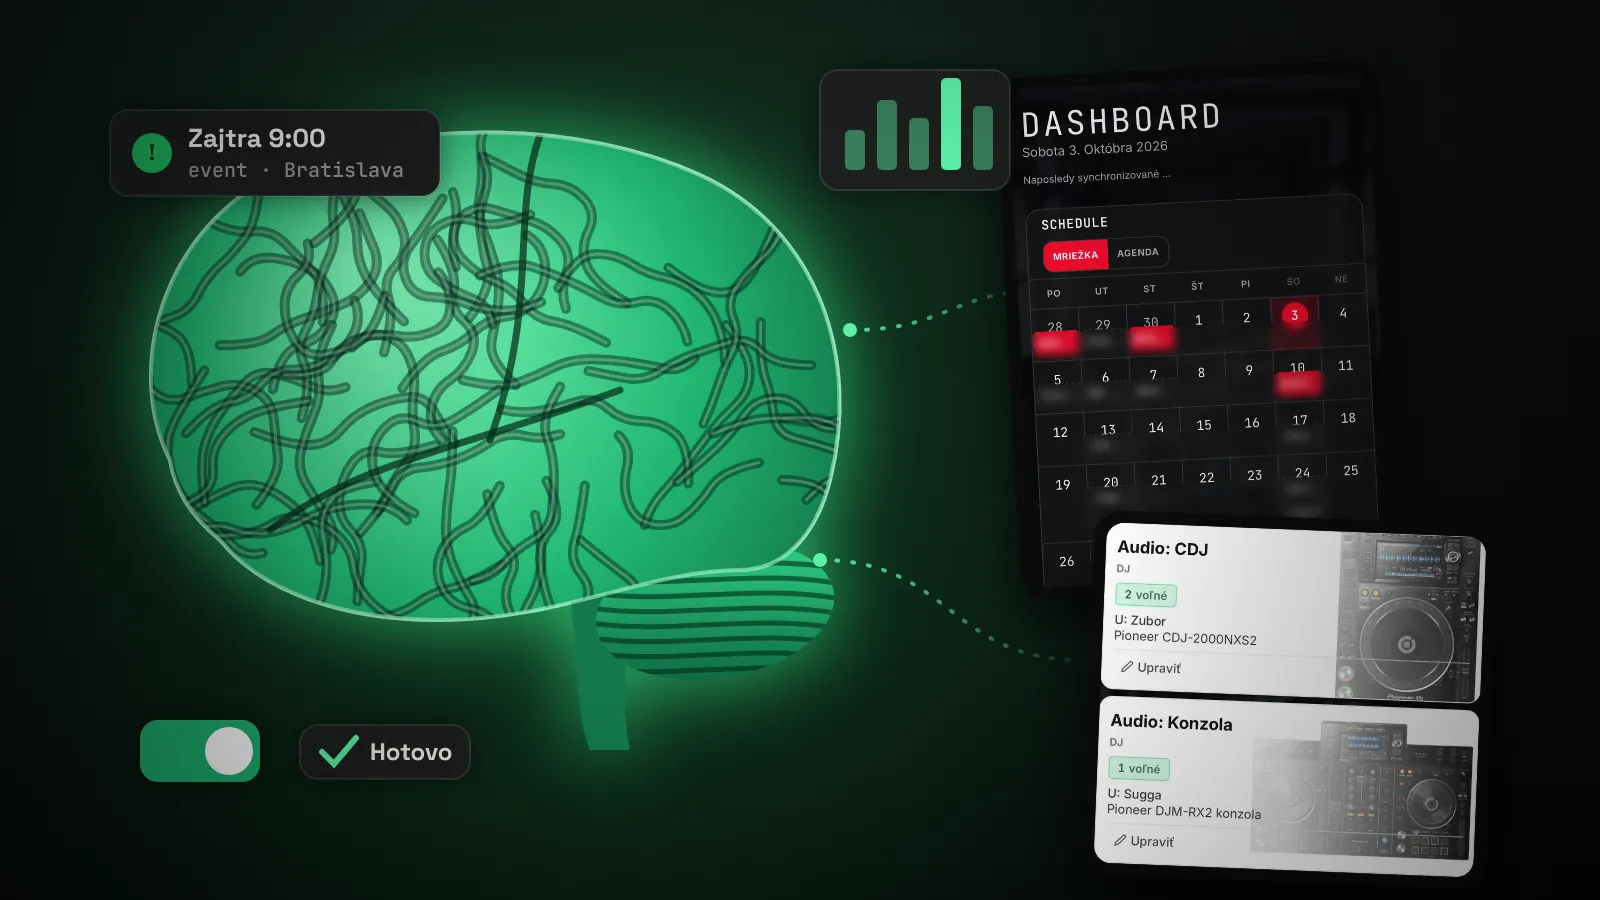
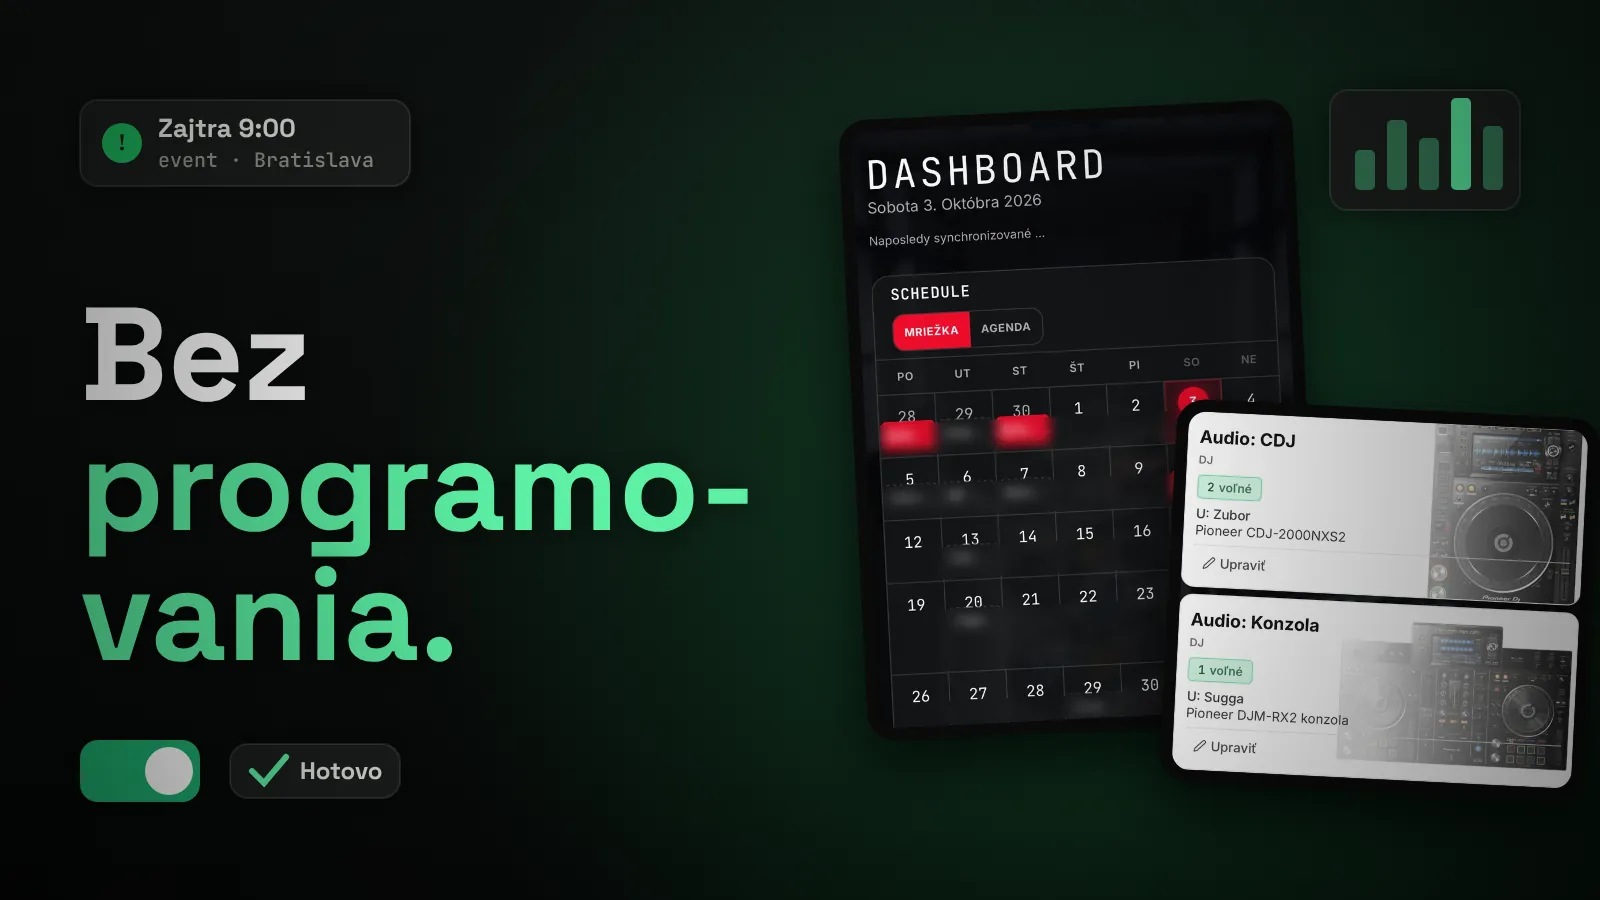
CS článok a Event Hub: svietiaci HWK tag, firemná liga, nový záver, obálka bez mozgu
- HWK banan: bez čierneho podkladu, svietiaca bledomodrá + žltá s obrysom
- poznámka pod komentárom z 2007, firemná e-športová liga, v CS-ku
- preč zoznam Tímová komunikácia / Rýchle rozhodovanie; záver: plejko trojka, hry stoja
- Event Hub obálka: Bez programovania + screenshoty a UI prvky, mozog preč

Claude-Session: https://claude.ai/code/session_012nSy5vG9ASVvhgHFNwy8Rx

diff --git a/tools/blog/covers/event-hub-appka-na-vlastnu-robotu.html b/tools/blog/covers/event-hub-appka-na-vlastnu-robotu.html
@@ -1,69 +1,31 @@
 <!doctype html><html><head><meta charset="utf-8"><link rel="stylesheet" href="../../cv/f/f.css"><style>html,body{margin:0;background:#0B0C0B}canvas{display:block}</style></head><body>
 <canvas id="c" width="1600" height="900"></canvas><script src="_base.js"></script><script>
-// thumbnail: a big glowing brain, the app's real screens and a few UI bits flying out of it. No title.
+// thumbnail: short title, the app's real screens and a few UI bits
 const srcs=['../../../img/eh-calendar.webp','../../../img/eh-stats.webp','../../../img/eh-tech.webp']; // [1] (stats) is not drawn: it shows client names
 Promise.all([document.fonts.load('600 30px "Space Grotesk"'),document.fonts.load('500 24px "JetBrains Mono"'),...srcs.map(s=>new Promise(res=>{const i=new Image();i.onload=()=>res(i);i.src=s;}))]).then(([, ,...imgs])=>{
 bg('#0F1412','#060807');
-let g=x.createRadialGradient(560,450,40,560,450,760);g.addColorStop(0,'rgba(31,191,98,.28)');g.addColorStop(1,'rgba(31,191,98,0)');x.fillStyle=g;x.fillRect(0,0,W,H);
-const BX=500,BY=420;
-// brain seen from the side, facing left: outline, cerebellum, stem
-const m=document.createElement('canvas');m.width=W;m.height=H;const b=m.getContext('2d');
-function outline(c){c.beginPath();c.moveTo(BX-330,BY+40);
- c.bezierCurveTo(BX-380,BY-60,BX-330,BY-210,BX-200,BY-255);
- c.bezierCurveTo(BX-90,BY-300,BX+80,BY-300,BX+200,BY-245);
- c.bezierCurveTo(BX+320,BY-190,BX+360,BY-60,BX+330,BY+60);
- c.bezierCurveTo(BX+315,BY+120,BX+280,BY+150,BX+240,BY+150);
- c.bezierCurveTo(BX+150,BY+150,BX+60,BY+200,BX-60,BY+200);
- c.bezierCurveTo(BX-160,BY+200,BX-240,BY+170,BX-280,BY+120);
- c.bezierCurveTo(BX-310,BY+95,BX-325,BY+70,BX-330,BY+40);c.closePath();}
-function cereb(c){c.beginPath();c.ellipse(BX+215,BY+190,120,68,-.15,0,7);c.closePath();}
-// stem
-b.fillStyle='#14784D';b.beginPath();b.moveTo(BX+70,BY+175);b.bezierCurveTo(BX+80,BY+250,BX+75,BY+290,BX+90,BY+330);b.lineTo(BX+130,BY+330);b.bezierCurveTo(BX+120,BY+280,BX+125,BY+230,BX+135,BY+175);b.fill();
-// cerebellum with fine stripes
-const cg=b.createLinearGradient(0,BY+120,0,BY+260);cg.addColorStop(0,'#2FD487');cg.addColorStop(1,'#0E6A43');b.fillStyle=cg;cereb(b);b.fill();
-b.save();cereb(b);b.clip();b.strokeStyle='rgba(4,40,24,.6)';b.lineWidth=5;for(let yy=BY+128;yy<BY+262;yy+=15){b.beginPath();b.moveTo(BX+90,yy);b.bezierCurveTo(BX+170,yy+12,BX+260,yy-10,BX+340,yy+6);b.stroke();}b.restore();
-// cerebrum
-const fg=b.createRadialGradient(BX-120,BY-150,30,BX,BY,470);fg.addColorStop(0,'#7DF7B8');fg.addColorStop(.5,'#22B873');fg.addColorStop(1,'#0B5536');
-b.fillStyle=fg;outline(b);b.fill();
-b.save();outline(b);b.clip();b.lineCap='round';b.lineJoin='round';
-let s=5;const rr2=()=>(s=(s*16807)%2147483647)/2147483647;
-// folds: short meandering grooves (gyri), smoothed through midpoints
-for(let k=0;k<62;k++){
- let px=BX-340+rr2()*680,py=BY-270+rr2()*450,a=rr2()*6.28;const pts=[[px,py]];
- for(let j=0;j<7;j++){a+=(rr2()-.5)*2.4;px+=Math.cos(a)*38;py+=Math.sin(a)*38;pts.push([px,py]);}
- b.beginPath();b.moveTo(pts[0][0],pts[0][1]);
- for(let j=1;j<pts.length-1;j++){const mx=(pts[j][0]+pts[j+1][0])/2,my=(pts[j][1]+pts[j+1][1])/2;b.quadraticCurveTo(pts[j][0],pts[j][1],mx,my);}
- b.strokeStyle='rgba(4,45,27,.5)';b.lineWidth=10;b.stroke();
- b.save();b.translate(-2,-3);b.strokeStyle='rgba(210,255,230,.28)';b.lineWidth=3;b.stroke();b.restore();}
-// central sulcus and the big side fissure
-b.strokeStyle='rgba(4,40,24,.7)';b.lineWidth=7;
-b.beginPath();b.moveTo(BX+40,BY-285);b.bezierCurveTo(BX+10,BY-200,BX+40,BY-120,BX-10,BY+20);b.stroke();
-b.beginPath();b.moveTo(BX-230,BY+110);b.bezierCurveTo(BX-140,BY+40,BX-40,BY+30,BX+120,BY-30);b.stroke();
-b.restore();
-// rim light
-b.strokeStyle='rgba(180,255,215,.55)';b.lineWidth=4;outline(b);b.stroke();
-// glow + draw
-x.save();x.shadowColor='rgba(60,255,150,.65)';x.shadowBlur=80;x.drawImage(m,0,0);x.restore();x.drawImage(m,0,0);
+let g=x.createRadialGradient(1150,470,40,1150,470,760);g.addColorStop(0,'rgba(31,191,98,.28)');g.addColorStop(1,'rgba(31,191,98,0)');x.fillStyle=g;x.fillRect(0,0,W,H);
+// no brain: the app's screens are the picture
 // cards
 function card(img,cx,cy,w,rot,sh){const h=w*img.height/img.width;x.save();x.translate(cx,cy);x.rotate(rot);x.shadowColor='rgba(0,0,0,.7)';x.shadowBlur=60;x.shadowOffsetY=24;x.fillStyle='#0A0A0A';rr(-w/2-12,-h/2-12,w+24,h+24,28);x.fill();x.shadowColor='transparent';x.save();rr(-w/2,-h/2,w,h,18);x.clip();x.drawImage(img,0,0,img.width,sh||img.height,-w/2,-h/2,w,h*(sh?1:1));x.restore();x.restore();}
 // glowing links from the brain to each screen
 function link(x0,y0,x1,y1){const gr=x.createLinearGradient(x0,y0,x1,y1);gr.addColorStop(0,'rgba(92,240,164,.9)');gr.addColorStop(1,'rgba(92,240,164,.15)');x.strokeStyle=gr;x.lineWidth=4;x.setLineDash([2,14]);x.lineCap='round';x.beginPath();x.moveTo(x0,y0);x.bezierCurveTo((x0+x1)/2,y0,(x0+x1)/2,y1,x1,y1);x.stroke();x.setLineDash([]);x.fillStyle='#5CF0A4';x.beginPath();x.arc(x0,y0,7,0,7);x.fill();}
-link(850,330,1050,290);link(820,560,1080,660);
-card(imgs[0],1200,330,360,-.05);
-card(imgs[2],1290,700,380,.04);
-// small UI bits around the brain
+card(imgs[0],1080,420,430,-.05);
+card(imgs[2],1380,600,400,.05);
+x.textBaseline='alphabetic';x.fillStyle='#FFFFFF';x.shadowColor='rgba(0,0,0,.6)';x.shadowBlur=30;x.font='700 132px "Space Grotesk", sans-serif';x.fillText('Bez',80,400);x.fillStyle='#5CF0A4';x.fillText('programo-',80,530);x.fillText('vania.',80,660);x.shadowColor='transparent';x.textBaseline='middle';
+// small UI bits
 function chip(cx,cy,w,h,fill,stroke){x.save();x.shadowColor='rgba(0,0,0,.55)';x.shadowBlur=30;x.fillStyle=fill;rr(cx,cy,w,h,h/2>22?18:h/2);x.fill();x.restore();if(stroke){x.strokeStyle=stroke;x.lineWidth=2;rr(cx,cy,w,h,h/2>22?18:h/2);x.stroke();}}
 // notification
-chip(110,110,330,86,'#1C1F1D','rgba(255,255,255,.12)');x.fillStyle='#1FBF62';x.beginPath();x.arc(152,153,20,0,7);x.fill();
-x.fillStyle='#0B1A12';x.font='700 24px "JetBrains Mono"';x.textAlign='center';x.textBaseline='middle';x.fillText('!',152,154);x.textAlign='left';
-x.fillStyle='#F5F5F2';x.font='600 26px "Space Grotesk"';x.fillText('Zajtra 9:00',188,140);x.fillStyle='#9A9A92';x.font='500 20px "JetBrains Mono"';x.fillText('event · Bratislava',188,172);
+chip(80,100,330,86,'#1C1F1D','rgba(255,255,255,.12)');x.fillStyle='#1FBF62';x.beginPath();x.arc(122,143,20,0,7);x.fill();
+x.fillStyle='#0B1A12';x.font='700 24px "JetBrains Mono"';x.textAlign='center';x.textBaseline='middle';x.fillText('!',122,144);x.textAlign='left';
+x.fillStyle='#F5F5F2';x.font='600 26px "Space Grotesk"';x.fillText('Zajtra 9:00',158,130);x.fillStyle='#9A9A92';x.font='500 20px "JetBrains Mono"';x.fillText('event · Bratislava',158,162);
 // toggle
-chip(140,720,120,62,'#1FAF6F');x.fillStyle='#fff';x.beginPath();x.arc(229,751,24,0,7);x.fill();
+chip(80,740,120,62,'#1FAF6F');x.fillStyle='#fff';x.beginPath();x.arc(169,771,24,0,7);x.fill();
 // check chip
-chip(300,725,170,54,'#1C1F1D','rgba(255,255,255,.12)');x.strokeStyle='#5CF0A4';x.lineWidth=6;x.lineCap='round';x.beginPath();x.moveTo(322,752);x.lineTo(334,764);x.lineTo(356,738);x.stroke();
-x.fillStyle='#E9E9E2';x.font='600 24px "Space Grotesk"';x.fillText('Hotovo',370,753);
+chip(230,744,170,54,'#1C1F1D','rgba(255,255,255,.12)');x.strokeStyle='#5CF0A4';x.lineWidth=6;x.lineCap='round';x.beginPath();x.moveTo(252,771);x.lineTo(264,783);x.lineTo(286,757);x.stroke();
+x.fillStyle='#E9E9E2';x.font='600 24px "Space Grotesk"';x.fillText('Hotovo',300,772);
 // mini bar chart
-chip(820,70,190,120,'#1C1F1D','rgba(255,255,255,.12)');[40,70,52,92,64].forEach((v,i)=>{x.fillStyle=i===3?'#5CF0A4':'rgba(92,240,164,.45)';rr(845+i*32,170-v,20,v,5);x.fill();});
+chip(1330,90,190,120,'#1C1F1D','rgba(255,255,255,.12)');[40,70,52,92,64].forEach((v,i)=>{x.fillStyle=i===3?'#5CF0A4':'rgba(92,240,164,.45)';rr(1355+i*32,190-v,20,v,5);x.fill();});
 vignette();
 });
 </script></body></html>

diff --git a/blog/ex-gamer/index.html b/blog/ex-gamer/index.html
@@ -56,7 +56,7 @@
 <ul class="stats s3">
   <li class="dark"><svg viewBox="0 0 24 24" aria-hidden="true" fill="none" stroke="currentColor" stroke-width="1.8" stroke-linecap="round" stroke-linejoin="round"><rect x="3.5" y="5" width="17" height="15" rx="2.5"/><path d="M3.5 10h17M8 3v4M16 3v4"/></svg><b>27. 9. 2023</b><span>vyšlo CS2. V ten deň som skončil</span></li>
   <li class=""><svg viewBox="0 0 24 24" aria-hidden="true" fill="none" stroke="currentColor" stroke-width="1.8" stroke-linecap="round" stroke-linejoin="round"><path d="M12 3l2.6 5.6 6 .7-4.5 4.1 1.2 6L12 16.4 6.7 19.4l1.2-6L3.4 9.3l6-.7z"/></svg><b>Top 15</b><span>na serveri, nonstop</span></li>
-  <li class="dark"><svg viewBox="0 0 24 24" aria-hidden="true" fill="none" stroke="currentColor" stroke-width="1.8" stroke-linecap="round" stroke-linejoin="round"><circle cx="12" cy="15" r="5.5"/><path d="M8.5 3.5L12 10l3.5-6.5M12 12.5v5"/></svg><b>1 zápas</b><span>v e-športovej lige. Prehra, ale medaila doma</span></li>
+  <li class="dark"><svg viewBox="0 0 24 24" aria-hidden="true" fill="none" stroke="currentColor" stroke-width="1.8" stroke-linecap="round" stroke-linejoin="round"><circle cx="12" cy="15" r="5.5"/><path d="M8.5 3.5L12 10l3.5-6.5M12 12.5v5"/></svg><b>1 zápas</b><span>vo firemnej e-športovej lige. Prehra, ale medaila doma</span></li>
 </ul>
 
 <h2>Counter-Strike: od 1.5 po CS2</h2>
@@ -74,7 +74,7 @@
   </li>
   <li class="end"><b>CS2</b><span>27. 9. 2023. V deň vydania som s e-športami skončil</span></li>
 </ul>
-<p>Pri 1.6 ešte jedno. U Tomáša na počítači sme mali v CS-ke tímy pomenované <i>Kalachoviny</i> a <i>Aztegoviny</i>. A Nino mal doma od staršieho brata nainštalovaný český dabing. Keď si hodil granát, postava povedala: <i>„Ale prdy.“</i> Na malé decká celkom úlet.</p>
+<p>Pri 1.6 ešte jedno. U Tomáša na počítači sme mali v CS-ku tímy pomenované <i>Kalachoviny</i> a <i>Aztegoviny</i>. A Nino mal doma od staršieho brata nainštalovaný český dabing. Keď si hodil granát, postava povedala: <i>„Ale prdy.“</i> Na malé decká celkom úlet.</p>
 
 <h2>Od komunitných serverov k rankom a skinom</h2>
 <p>V 1.6 a v Source sa hralo na <b>komunitných serveroch</b>. Prišiel si, hral si, odišiel si. Na začiatku to tak bolo aj v Global Offensive. Lenže GO malo od začiatku aj <b>competitive režim s rankami</b>. A ranky robia s hlavou svoje: vyhráš, stúpneš, chceš ešte jeden zápas. Dopamín. Grindil som nonstop.</p>
@@ -91,23 +91,20 @@
 <p>Prezývka? Netuším, ako vznikla. Keď som hrával Trackmaniu, volal som sa <b>tvbanan</b>, Televízia Banan. Prečo, neviem. Ale na tom bolo to super, že taký nik nemal. Bol môj.</p>
 <p>V tíme na Trackmanii som sa potom prepísal a pridal klanový tag. Bol to Hamachi War Klan, takže tag klanu a za ním banan: <span class="tm-tag"><span class="hwk">HWK</span><span class="bn">banan</span></span>. Vrchol kariéry.</p>
 <p>Dôkaz? Na Plnehry.sk mám dodnes komentár pod <a href="https://plnehry.sector.sk/plnahra/4131/trackmania_nations_eswc.htm" target="_blank" rel="noopener">Trackmania Nations ESWC</a>. Mal som 12 rokov.</p>
-<div class="post-shots wide one"><figure><img src="../../img/hwkbanan-2007.webp" width="1170" height="419" loading="lazy" alt="Komentár od HWKBANAN z 12. 6. 2007: hra pod nickom HWKbanan, neznášam, keď chodí niekto na tento nick, asi 10 ľudí som už na***l"><figcaption>HWKBANAN, 12. 6. 2007<small>komentár na Plnehry.sk</small></figcaption></figure></div>
+<div class="post-shots wide one"><figure><img src="../../img/hwkbanan-2007.webp" width="1170" height="419" loading="lazy" alt="Komentár od HWKBANAN z 12. 6. 2007: hra pod nickom HWKbanan, neznášam, keď chodí niekto na tento nick, asi 10 ľudí som už na***l"><figcaption>HWKBANAN, 12. 6. 2007<small>komentár na Plnehry.sk</small></figcaption><p class="shot-note">(absolútne netuším, čo tým chcel autor povedať)</p></figure></div>
 
 <h2>Medaila za jeden zápas</h2>
-<p>Vrchol? Keď sme hrali e-športovú ligu. Síce sme prehrali, ale nevadí: máme z toho medailu doma. Za jeden zápas, ktorý som odohral.</p>
+<p>Vrchol? Keď sme hrali e-športovú ligu. Bola to firemná liga, čiže nič moc. Síce sme prehrali, ale nevadí: máme z toho medailu doma. Za jeden zápas, ktorý som odohral.</p>
 
 <h2>Zlom: CS2 a MacBook</h2>
 <p>Presne v deň, keď vyšlo CS2, som prestal. Neviem prečo, ale tak to vyšlo. Vtedy som už ani nemal herný počítač, len MacBook. Takže som na ňom mohol hrať tak akurát <b>Hearthstone Battlegrounds</b>. Smutné.</p>
 
 <h2>Čo mi to dalo</h2>
 <p>V podstate polovicu kariéry. Z hrania sa stali turnaje, ktoré som organizoval, produkcia eventov, livestreamy a grafika do vysielaní. Skúsenosti z gamingu ma dostali na miesta, kam by som sa bez nich nedostal. Ak nemáš ten herný „knowledge“, nedostaneš sa tam. Celý príbeh nájdeš na stránke <a href="../../kto-som/">Kto som</a>.</p>
-<ul class="feat">
-  <li><span class="ic"><svg viewBox="0 0 24 24" aria-hidden="true" fill="none" stroke="currentColor" stroke-width="1.8" stroke-linecap="round" stroke-linejoin="round"><circle cx="9" cy="8.5" r="3.2"/><path d="M3 19c.6-3.3 3-5 6-5s5.4 1.7 6 5"/><circle cx="17" cy="9.5" r="2.4"/><path d="M17.5 14.2c2 .2 3.3 1.6 3.5 4.3"/></svg></span><div><b>Tímová komunikácia</b><span>v CS-ke sa dohodneš za dve sekundy, alebo prehráš</span></div></li>
-  <li><span class="ic"><svg viewBox="0 0 24 24" aria-hidden="true" fill="none" stroke="currentColor" stroke-width="1.8" stroke-linecap="round" stroke-linejoin="round"><path d="M13 3L5 13.5h6L10 21l9-11h-6z"/></svg></span><div><b>Rýchle rozhodovanie</b><span>nemáš čas rozmýšľať, keď si posledný živý a bomba tiká</span></div></li>
-</ul>
-
 <h2>Čo hrám dnes?</h2>
 <p>Život. Haha.</p>
+<p class="later">A občas plejko trojku.</p>
+<p>Teraz hry stoja. Absolútne nič.</p>
 <p>A ty? Čo si hral a prečo si prestal? Napíš mi, rád si to prečítam.</p>
     </div>
     

diff --git a/tools/blog/posts/2026-10-07-ex-gamer.html b/tools/blog/posts/2026-10-07-ex-gamer.html
@@ -14,7 +14,7 @@
 <ul class="stats s3">
   <li class="dark"><svg viewBox="0 0 24 24" aria-hidden="true" fill="none" stroke="currentColor" stroke-width="1.8" stroke-linecap="round" stroke-linejoin="round"><rect x="3.5" y="5" width="17" height="15" rx="2.5"/><path d="M3.5 10h17M8 3v4M16 3v4"/></svg><b>27. 9. 2023</b><span>vyšlo CS2. V ten deň som skončil</span></li>
   <li class=""><svg viewBox="0 0 24 24" aria-hidden="true" fill="none" stroke="currentColor" stroke-width="1.8" stroke-linecap="round" stroke-linejoin="round"><path d="M12 3l2.6 5.6 6 .7-4.5 4.1 1.2 6L12 16.4 6.7 19.4l1.2-6L3.4 9.3l6-.7z"/></svg><b>Top 15</b><span>na serveri, nonstop</span></li>
-  <li class="dark"><svg viewBox="0 0 24 24" aria-hidden="true" fill="none" stroke="currentColor" stroke-width="1.8" stroke-linecap="round" stroke-linejoin="round"><circle cx="12" cy="15" r="5.5"/><path d="M8.5 3.5L12 10l3.5-6.5M12 12.5v5"/></svg><b>1 zápas</b><span>v e-športovej lige. Prehra, ale medaila doma</span></li>
+  <li class="dark"><svg viewBox="0 0 24 24" aria-hidden="true" fill="none" stroke="currentColor" stroke-width="1.8" stroke-linecap="round" stroke-linejoin="round"><circle cx="12" cy="15" r="5.5"/><path d="M8.5 3.5L12 10l3.5-6.5M12 12.5v5"/></svg><b>1 zápas</b><span>vo firemnej e-športovej lige. Prehra, ale medaila doma</span></li>
 </ul>
 
 <h2>Counter-Strike: od 1.5 po CS2</h2>
@@ -32,7 +32,7 @@
   </li>
   <li class="end"><b>CS2</b><span>27. 9. 2023. V deň vydania som s e-športami skončil</span></li>
 </ul>
-<p>Pri 1.6 ešte jedno. U Tomáša na počítači sme mali v CS-ke tímy pomenované <i>Kalachoviny</i> a <i>Aztegoviny</i>. A Nino mal doma od staršieho brata nainštalovaný český dabing. Keď si hodil granát, postava povedala: <i>„Ale prdy.“</i> Na malé decká celkom úlet.</p>
+<p>Pri 1.6 ešte jedno. U Tomáša na počítači sme mali v CS-ku tímy pomenované <i>Kalachoviny</i> a <i>Aztegoviny</i>. A Nino mal doma od staršieho brata nainštalovaný český dabing. Keď si hodil granát, postava povedala: <i>„Ale prdy.“</i> Na malé decká celkom úlet.</p>
 
 <h2>Od komunitných serverov k rankom a skinom</h2>
 <p>V 1.6 a v Source sa hralo na <b>komunitných serveroch</b>. Prišiel si, hral si, odišiel si. Na začiatku to tak bolo aj v Global Offensive. Lenže GO malo od začiatku aj <b>competitive režim s rankami</b>. A ranky robia s hlavou svoje: vyhráš, stúpneš, chceš ešte jeden zápas. Dopamín. Grindil som nonstop.</p>
@@ -49,21 +49,18 @@
 <p>Prezývka? Netuším, ako vznikla. Keď som hrával Trackmaniu, volal som sa <b>tvbanan</b>, Televízia Banan. Prečo, neviem. Ale na tom bolo to super, že taký nik nemal. Bol môj.</p>
 <p>V tíme na Trackmanii som sa potom prepísal a pridal klanový tag. Bol to Hamachi War Klan, takže tag klanu a za ním banan: <span class="tm-tag"><span class="hwk">HWK</span><span class="bn">banan</span></span>. Vrchol kariéry.</p>
 <p>Dôkaz? Na Plnehry.sk mám dodnes komentár pod <a href="https://plnehry.sector.sk/plnahra/4131/trackmania_nations_eswc.htm" target="_blank" rel="noopener">Trackmania Nations ESWC</a>. Mal som 12 rokov.</p>
-<div class="post-shots wide one"><figure><img src="../../img/hwkbanan-2007.webp" width="1170" height="419" loading="lazy" alt="Komentár od HWKBANAN z 12. 6. 2007: hra pod nickom HWKbanan, neznášam, keď chodí niekto na tento nick, asi 10 ľudí som už na***l"><figcaption>HWKBANAN, 12. 6. 2007<small>komentár na Plnehry.sk</small></figcaption></figure></div>
+<div class="post-shots wide one"><figure><img src="../../img/hwkbanan-2007.webp" width="1170" height="419" loading="lazy" alt="Komentár od HWKBANAN z 12. 6. 2007: hra pod nickom HWKbanan, neznášam, keď chodí niekto na tento nick, asi 10 ľudí som už na***l"><figcaption>HWKBANAN, 12. 6. 2007<small>komentár na Plnehry.sk</small></figcaption><p class="shot-note">(absolútne netuším, čo tým chcel autor povedať)</p></figure></div>
 
 <h2>Medaila za jeden zápas</h2>
-<p>Vrchol? Keď sme hrali e-športovú ligu. Síce sme prehrali, ale nevadí: máme z toho medailu doma. Za jeden zápas, ktorý som odohral.</p>
+<p>Vrchol? Keď sme hrali e-športovú ligu. Bola to firemná liga, čiže nič moc. Síce sme prehrali, ale nevadí: máme z toho medailu doma. Za jeden zápas, ktorý som odohral.</p>
 
 <h2>Zlom: CS2 a MacBook</h2>
 <p>Presne v deň, keď vyšlo CS2, som prestal. Neviem prečo, ale tak to vyšlo. Vtedy som už ani nemal herný počítač, len MacBook. Takže som na ňom mohol hrať tak akurát <b>Hearthstone Battlegrounds</b>. Smutné.</p>
 
 <h2>Čo mi to dalo</h2>
 <p>V podstate polovicu kariéry. Z hrania sa stali turnaje, ktoré som organizoval, produkcia eventov, livestreamy a grafika do vysielaní. Skúsenosti z gamingu ma dostali na miesta, kam by som sa bez nich nedostal. Ak nemáš ten herný „knowledge“, nedostaneš sa tam. Celý príbeh nájdeš na stránke <a href="../../kto-som/">Kto som</a>.</p>
-<ul class="feat">
-  <li><span class="ic"><svg viewBox="0 0 24 24" aria-hidden="true" fill="none" stroke="currentColor" stroke-width="1.8" stroke-linecap="round" stroke-linejoin="round"><circle cx="9" cy="8.5" r="3.2"/><path d="M3 19c.6-3.3 3-5 6-5s5.4 1.7 6 5"/><circle cx="17" cy="9.5" r="2.4"/><path d="M17.5 14.2c2 .2 3.3 1.6 3.5 4.3"/></svg></span><div><b>Tímová komunikácia</b><span>v CS-ke sa dohodneš za dve sekundy, alebo prehráš</span></div></li>
-  <li><span class="ic"><svg viewBox="0 0 24 24" aria-hidden="true" fill="none" stroke="currentColor" stroke-width="1.8" stroke-linecap="round" stroke-linejoin="round"><path d="M13 3L5 13.5h6L10 21l9-11h-6z"/></svg></span><div><b>Rýchle rozhodovanie</b><span>nemáš čas rozmýšľať, keď si posledný živý a bomba tiká</span></div></li>
-</ul>
-
 <h2>Čo hrám dnes?</h2>
 <p>Život. Haha.</p>
+<p class="later">A občas plejko trojku.</p>
+<p>Teraz hry stoja. Absolútne nič.</p>
 <p>A ty? Čo si hral a prečo si prestal? Napíš mi, rád si to prečítam.</p>

diff --git a/assets/blog.css b/assets/blog.css
@@ -197,10 +197,12 @@
 .prose a.btn { text-decoration: none; }
 .prose a.btn-green { color: #0B1A12; }
 .prose a.btn-green:hover { background: #161616; border-color: #161616; color: #fff; }
-/* Trackmania-style clan tag: slanted, wide, pale blue + yellow on a dark chip */
-.prose .tm-tag { display: inline-block; padding: .05rem .55rem .1rem; border-radius: 6px; background: #161616; font: 700 1em var(--f); letter-spacing: .12em; transform: skewX(-14deg); text-shadow: 0 0 6px rgba(255,255,255,.25); white-space: nowrap; }
-.prose .tm-tag .hwk { color: #9FD3FF; margin-right: .35em; }
-.prose .tm-tag .bn { color: #FFD400; }
+/* Trackmania-style clan tag: slanted, wide, glowing pale blue + yellow, no dark chip */
+.prose .tm-tag { display: inline-block; padding: 0 .15rem; font: 700 1.05em var(--f); letter-spacing: .14em; transform: skewX(-14deg); white-space: nowrap; -webkit-text-stroke: 1.2px #12324F; paint-order: stroke fill; font-size: 1.15em; }
+.prose .tm-tag .hwk { color: #A8E4FF; margin-right: .35em; text-shadow: 0 0 6px #7FD4FF, 0 0 14px rgba(90,190,255,.85), 0 0 26px rgba(90,190,255,.55); }
+.prose .tm-tag .bn { color: #FFD400; -webkit-text-stroke-color: #4A3700; text-shadow: 0 0 6px rgba(255,212,0,.8), 0 0 16px rgba(255,190,0,.5); }
+.post-shots .shot-note { margin: .2rem 0 0; text-align: right; font: italic .82rem/1.3 var(--f); color: var(--muted); }
+.prose .later { margin-top: 3.2rem; }
 .prose .stats.s3 li:last-child:nth-child(odd) { grid-column: 1 / -1; }
 @media (min-width: 40rem) { .prose .stats.s3 li:last-child:nth-child(odd) { grid-column: auto; } }
 /* YouTube embed (privacy-enhanced domain) */

diff --git a/blog/event-hub-appka-na-vlastnu-robotu/index.html b/blog/event-hub-appka-na-vlastnu-robotu/index.html
@@ -48,7 +48,7 @@
     <h1>Postavil som si appku bez akéhokoľvek programovania.</h1>
     <p class="lead">Celé dni som na cestách alebo na akciách a administratíva sa mi kopila v Exceli, poznámkach a správach. Tak som si s AI postavil Event Hub: jedno miesto, ktoré mi všetko zbiera, triedi a samo pripomína.</p>
     <p class="tags"><span class="chip">AI</span><span class="chip">Event Hub</span><span class="chip">príbeh</span></p>
-    <figure class="post-cover"><img src="../../img/blog/event-hub-appka-na-vlastnu-robotu.webp" width="1600" height="900" alt="Ilustrácia: žiariaci mozog, z ktorého vychádzajú obrazovky appky Event Hub a prvky rozhrania" fetchpriority="high"></figure>
+    <figure class="post-cover"><img src="../../img/blog/event-hub-appka-na-vlastnu-robotu.webp" width="1600" height="900" alt="Ilustrácia: nápis Bez programovania a obrazovky appky Event Hub s prvkami rozhrania" fetchpriority="high"></figure>
     <div class="prose">
 <p>Jazdím s event autom a produkujem menšie eventy, od gamingu cez culture akcie až po festivaly. A s každou novou akciou rástla aj jedna nudná vec: <b>administratíva</b>.</p>
 

diff --git a/tools/blog/posts/2026-10-07-event-hub-appka-na-vlastnu-robotu.html b/tools/blog/posts/2026-10-07-event-hub-appka-na-vlastnu-robotu.html
@@ -5,7 +5,7 @@
   "slug": "event-hub-appka-na-vlastnu-robotu",
   "lead": "Celé dni som na cestách alebo na akciách a administratíva sa mi kopila v Exceli, poznámkach a správach. Tak som si s AI postavil Event Hub: jedno miesto, ktoré mi všetko zbiera, triedi a samo pripomína.",
   "tags": ["AI", "Event Hub", "príbeh"],
-  "cover_alt": "Ilustrácia: žiariaci mozog, z ktorého vychádzajú obrazovky appky Event Hub a prvky rozhrania",
+  "cover_alt": "Ilustrácia: nápis Bez programovania a obrazovky appky Event Hub s prvkami rozhrania",
   "sources": []
 } -->
 <p>Jazdím s event autom a produkujem menšie eventy, od gamingu cez culture akcie až po festivaly. A s každou novou akciou rástla aj jedna nudná vec: <b>administratíva</b>.</p>
